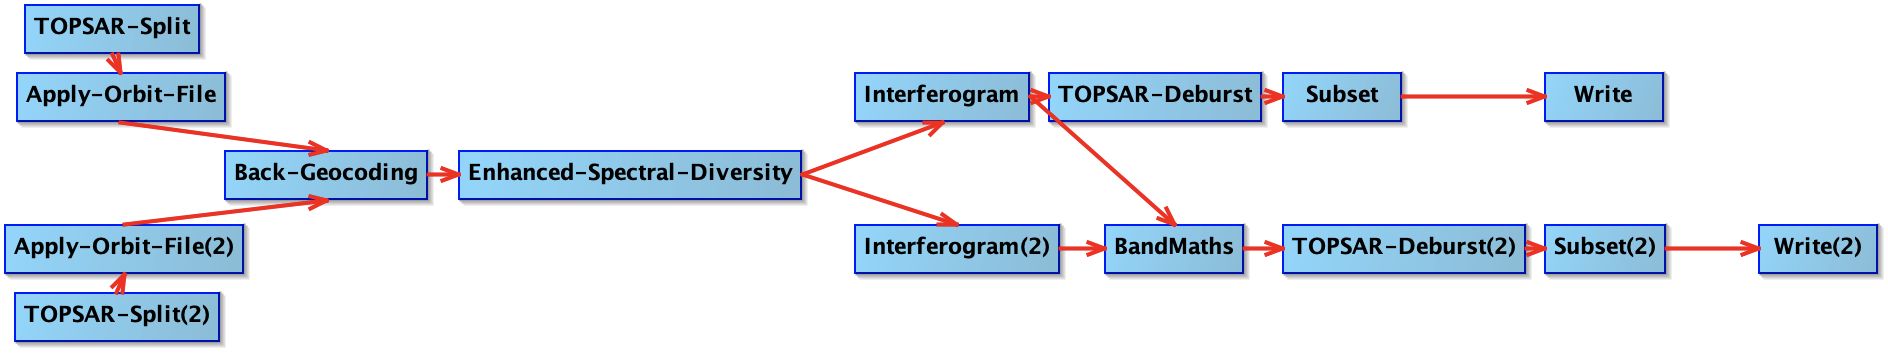
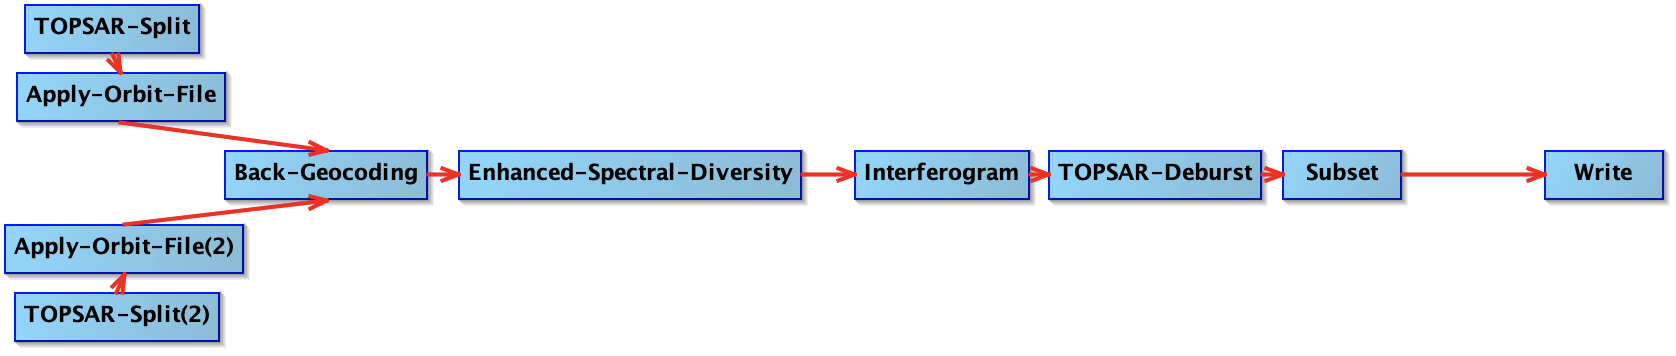
rollback coregistration and interferogram

Changed region(s): [[0.0, 0.0, 1.0, 0.9888]]

diff --git a/examples/gpt/TOPSAR-Coreg-Interferogram/README.md b/examples/gpt/TOPSAR-Coreg-Interferogram/README.md
@@ -10,8 +10,7 @@ Graphical representation of the Graph ([TOPSAR-Coreg-Interferogram.xml](./TOPSAR
 * `Apply-Orbit-File`: Download precise orbit data (if not available, restituted orbits are used).
 * `Back-Geocoding`: Run coregistration of the two (selection) scenes. A DEM data is downloaded (or a local one can be used).
 * `Enhanced-Spectral-Diversity`: Run the Network Enhanced Spectral Diversity (NESD) algorithm for TOPS coregistration.
-* `Interferogram`: Calculate the interferogram. Note that we run the interferogram node twice, once with `subtractFlatEarthPhase` and `subtractTopographicPhase` set to TRUE (`Interferogram`), and once with both variables set to FALSE (`Interferogram(2)`).
-* `BandMaths`: Calculate the difference between the two interferograms, estimating the height-to-phase factor.
+* `Interferogram`: Calculate the interferogram. 
 * `TOPSAR-Deburst`: Merge the selected bursts into a raster image, dropping overlaps. **It fails if the workflow acts on a single burst**.
 * *(not implemented)* `TOPSAR-Merge`: Debursted rasters from different subswaths can be merged at this point.
 * `Subset`: Crop the raster band(s) to the AoI.
